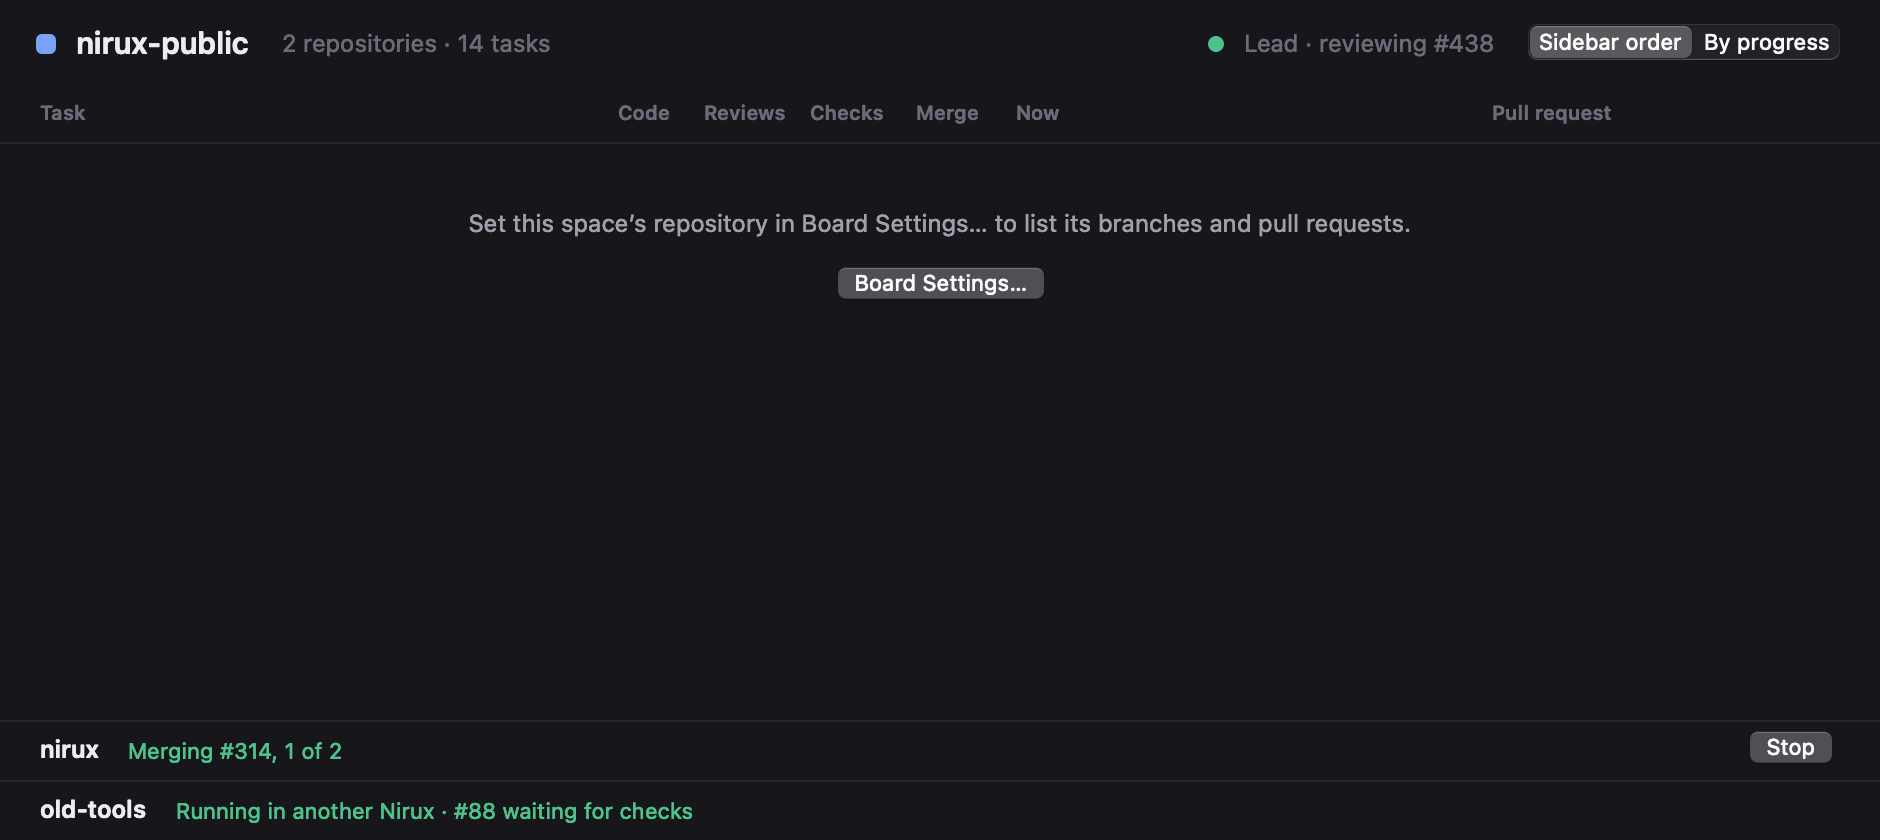
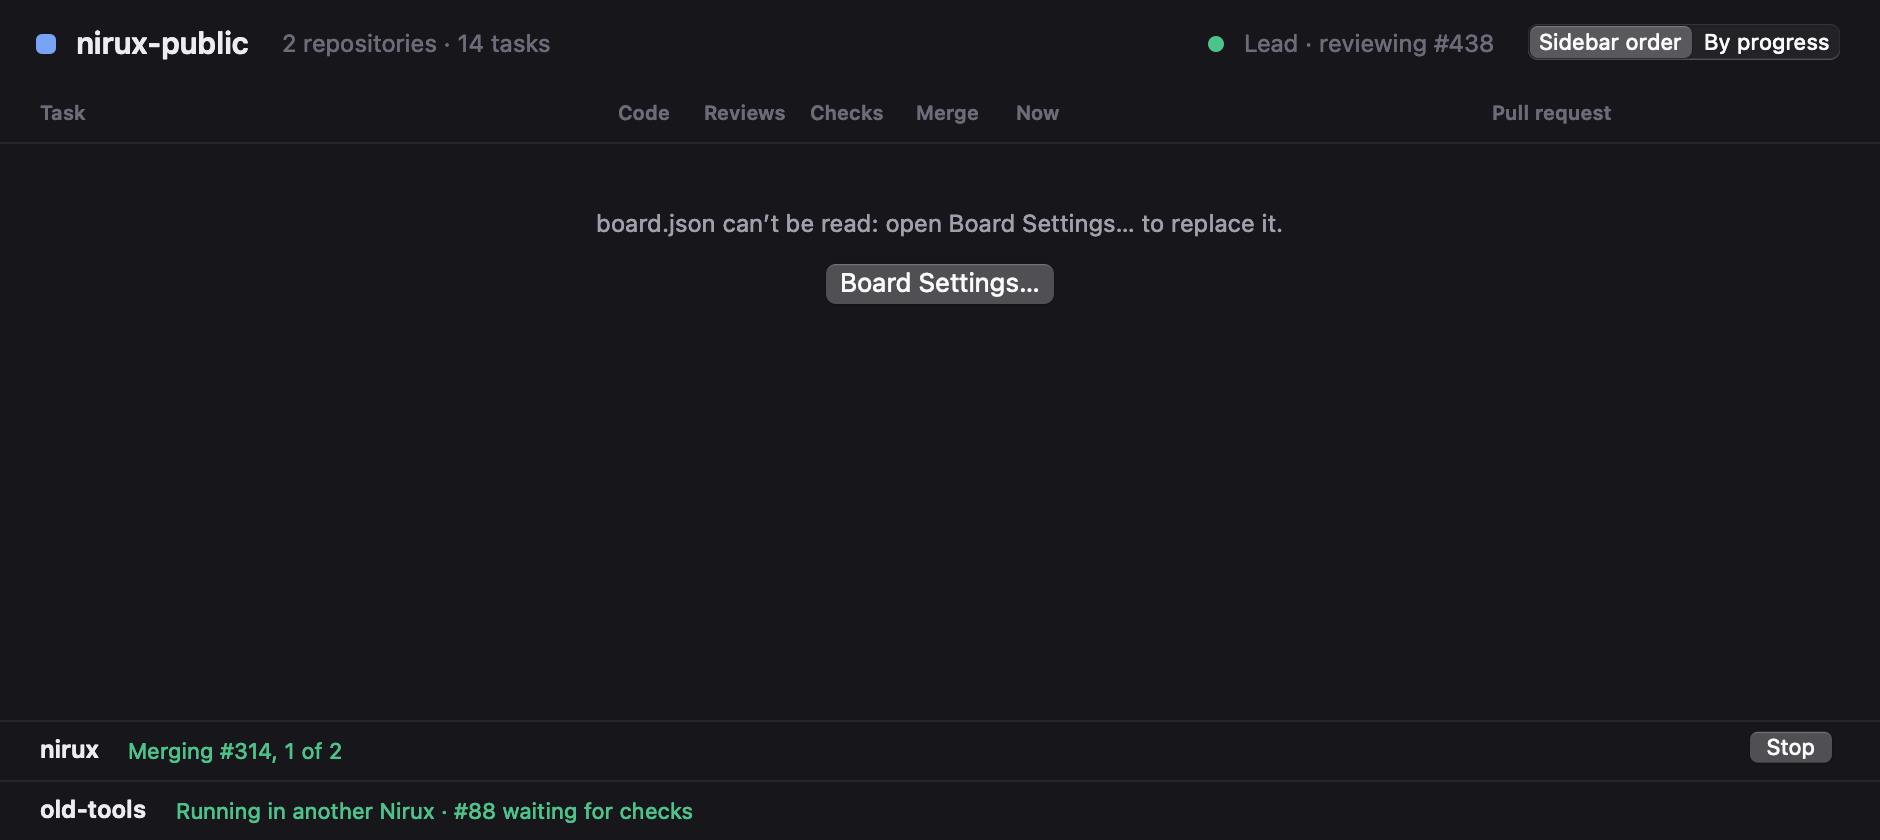
fix(board): a message in place of the sections, after its reviews
- Where a message comes or goes under the pointer, what is now there
  acts only once the pointer moves, even one that aimed: Board
  Settings… pressed as the message went no longer queues the pull
  request that came under the click. Board Settings… is part of what
  the pointer aims at, so it waits too when it comes under a resting
  pointer.
- Nothing is held for a message, coming or going, nor where nothing
  was shown: a Board drawn in two steps no longer stays blank until
  the pointer leaves.
- The folds stay as they were while a message shows.
- Its words can't be selected; its button is the table's size, never
  past the left edge; it is wired once.

Claude-Session: https://claude.ai/code/session_01DoPK2QHBLPrXQLWdF5gnYe

Changed region(s): [[0.2468, 0.2476, 0.7404, 0.2786], [0.4319, 0.3095, 0.5862, 0.3714]]

diff --git a/Tests/NiruxTests/BoardStagesViewTests.swift b/Tests/NiruxTests/BoardStagesViewTests.swift
@@ -2349,6 +2349,11 @@ final class BoardStagesViewTests: XCTestCase {
         XCTAssertNil(view.sectionHeader(section: "nirux"))
         let message = view.messageView
         XCTAssertTrue(message.isDescendant(of: view.scrollView))
+        XCTAssertEqual(view.scrollView.documentView?.subviews.count, 1, "alone in the list: nothing drawn under it")
+        XCTAssertEqual([message.frame.minX, message.frame.width], [0, view.scrollView.contentSize.width])
+        XCTAssertEqual(message.label.alignment, .center)
+        XCTAssertFalse(message.label.isSelectable)
+        XCTAssertEqual(message.settingsButton.frame.width, ceil(message.settingsButton.intrinsicContentSize.width) + 8, "as the table's")
         XCTAssertEqual(message.label.stringValue, "board.json can’t be read: open Board Settings… to replace it.")
         XCTAssertEqual(message.label.frame.minX, 24)
         XCTAssertEqual(message.label.frame.width, message.bounds.width - 48)
@@ -2360,10 +2365,18 @@ final class BoardStagesViewTests: XCTestCase {
         try click(message.settingsButton)
         XCTAssertEqual(opened, 1)
         XCTAssertEqual(view.runningQueueViews.map(\.queue.id), ["orphan"], "a queue that runs keeps its line")
-        // Narrow: its words wrap.
+        // Narrow: its words wrap, and a long one scrolls.
         view.setFrameSize(NSSize(width: 300, height: 600))
         view.layoutSubtreeIfNeeded()
         XCTAssertGreaterThan(message.label.frame.height, 20)
+        told.message?.text = String(repeating: "board.json can’t be read. ", count: 60)
+        view.show(told)
+        view.layoutSubtreeIfNeeded()
+        XCTAssertGreaterThanOrEqual(try XCTUnwrap(view.scrollView.documentView).frame.height, message.frame.maxY)
+        XCTAssertGreaterThan(message.frame.maxY, view.scrollView.contentSize.height)
+        view.setFrameSize(NSSize(width: 40, height: 600))
+        view.layoutSubtreeIfNeeded()
+        XCTAssertGreaterThanOrEqual(message.settingsButton.frame.minX, 0, "nothing past the left edge")
         view.setFrameSize(NSSize(width: 940, height: 600))
         // One the settings can't fix: no button.
         told.message = BoardStagesView.Message(text: "Reading board.json…")
@@ -2378,6 +2391,83 @@ final class BoardStagesViewTests: XCTestCase {
         view.layoutSubtreeIfNeeded()
         XCTAssertNil(message.superview)
         XCTAssertEqual(view.lineViews.map(\.line.id), ["b", "a"])
+    }
+
+    func testAMessageThatComesOrGoesUnderThePointerAimsAgainAndKeepsTheFolds() throws {
+        let sections = { (ids: [String]) in
+            [self.section(units: self.tasks(ids.map { self.offering($0, .add, 50) }), withoutTask: self.tasks([self.line("pr")]))]
+        }
+        let view = board(content(sections(["a", "b"])))
+        var time: TimeInterval = 100
+        var checks = 0
+        view.clock = { time }
+        view.after = { _, _ in checks += 1 }
+        view.settleLater = { $0() }
+        view.foldButton(section: "nirux")?.performClick(nil)
+        view.layoutSubtreeIfNeeded()
+        let merge = BoardStagesView.Columns(width: 940).stations[3]
+        var pointer = place(merge, on: view.lineViews[0])
+        view.pointerLocation = { pointer }
+        view.mouseMoved(with: try moved(to: pointer, in: view))
+        // It comes while the pointer aims, the sections changed: nothing held behind it, no look waits.
+        var told = content(sections(["b", "a"]))
+        told.message = BoardStagesView.Message(text: "board.json can’t be read: open Board Settings… to replace it.", offersSettings: true)
+        view.show(told)
+        view.layoutSubtreeIfNeeded()
+        XCTAssertEqual(view.departed, [])
+        XCTAssertEqual(checks, 0)
+        // Board Settings… under a pointer that aims, then rests on it.
+        let button = view.messageView.settingsButton
+        pointer = button.convert(NSPoint(x: button.bounds.midX, y: button.bounds.midY), to: nil)
+        view.mouseMoved(with: try moved(to: pointer, in: view))
+        XCTAssertFalse(view.isPointerStale)
+        // It goes, the sections coming back with no section: the folds are as they were.
+        time = 101
+        told.message = nil
+        told.sections = sections(["a", "b"])
+        view.show(told)
+        view.layoutSubtreeIfNeeded()
+        XCTAssertEqual(view.lineViews.map(\.line.id), ["a", "b", "pr"], "the fold unfolded still")
+        // What came under the pointer aimed at Board Settings… is another thing to click, though the pointer aims.
+        XCTAssertTrue(view.isPointerStale)
+    }
+
+    func testAMessageAppearingUnderAPointerThatRestsWaitsForItToMove() throws {
+        let view = board(content([section(units: tasks([line("a")]))]))
+        var time: TimeInterval = 100
+        view.clock = { time }
+        view.after = { _, _ in }
+        // Where Board Settings… will be.
+        var told = content([])
+        told.message = BoardStagesView.Message(text: "Reading board.json…", offersSettings: true)
+        let probe = board(told)
+        let button = probe.messageView.settingsButton
+        let pointer = button.convert(NSPoint(x: button.bounds.midX, y: button.bounds.midY), to: nil)
+        view.pointerLocation = { pointer }
+        view.mouseMoved(with: try moved(to: pointer, in: view))
+        time = 200
+        view.show(told)
+        view.layoutSubtreeIfNeeded()
+        XCTAssertTrue(view.isPointerStale, "Board Settings… came under a pointer that rests")
+        // Without its button first, then with it, under a pointer that rests: still another thing to click.
+        time = 205
+        view.mouseMoved(with: try moved(to: NSPoint(x: pointer.x + 5, y: pointer.y), in: view))
+        view.mouseMoved(with: try moved(to: pointer, in: view))
+        told.message?.offersSettings = false
+        view.show(told)
+        XCTAssertFalse(view.isPointerStale)
+        time = 207
+        told.message?.offersSettings = true
+        view.show(told)
+        view.layoutSubtreeIfNeeded()
+        XCTAssertTrue(view.isPointerStale)
+        // It goes with no section; the sections come in a second step, the pointer moving over the Board: shown at once.
+        time = 210
+        view.mouseMoved(with: try moved(to: NSPoint(x: pointer.x + 5, y: pointer.y), in: view))
+        view.show(content([]))
+        view.show(content([section(units: tasks([line("a"), line("b")]))]))
+        view.layoutSubtreeIfNeeded()
+        XCTAssertEqual(view.lineViews.map(\.line.id), ["a", "b"], "nothing was shown: nothing to hold")
     }
 
     func testMergedTodayOpensTheTaskStillOpen() throws {

diff --git a/Sources/Nirux/Views/BoardStagesView.swift b/Sources/Nirux/Views/BoardStagesView.swift
@@ -304,6 +304,8 @@ final class BoardStagesView: NSView {
         scrollView.documentView = documentView
         // Scrolled, the pointer aims at what comes under it.
         scrollView.onScroll = { [weak self] in self?.pointerMoved(to: nil) }
+        messageView.aim = aim
+        messageView.onSettings = { [weak self] in self?.onBoardSettings?() }
         aim.onUse = { [weak self] in self?.pointerUsed() }
         // The lines move under a still pointer when the list scrolls, and
         // an app that isn't active doesn't hear the pointer leave.
@@ -369,9 +371,10 @@ final class BoardStagesView: NSView {
             // The order the switch asked for, now shown; a request is good for this change only.
             let isAsked = askedOrder == content.order && content.order != previous?.order
             askedOrder = nil
-            // A message takes the sections' place at once; once it goes, they come back at once, as they are.
-            let wasMessage = previous?.message != nil
-            if isPointerInside, isAiming, !isAsked, !wasMessage, previous != nil {
+            // A message takes the sections' place at once, and once it goes they come back at once, as they are; nothing
+            // shown, nothing can move under the pointer.
+            let isMessage = content.message != nil || previous?.message != nil
+            if isPointerInside, isAiming, !isAsked, !isMessage, !shownSections.isEmpty, previous != nil {
                 (shownSections, departed) = Self.holding(shownSections, in: content.sections)
             } else {
                 (shownSections, departed) = (content.sections, [])
@@ -380,8 +383,9 @@ final class BoardStagesView: NSView {
         }
         showTimes()
         layoutContent()
-        // Under a pointer that rests, what is under it may have changed: it waits for the pointer to move.
-        if isPointerInside, !isAiming {
+        // Under a pointer that rests, or where a message came or went, what is under it may have changed: it waits for
+        // the pointer to move.
+        if isPointerInside, !isAiming || content.message != previous?.message {
             layoutSubtreeIfNeeded()
             goStale(ifChangedFrom: aimedBefore)
         }
@@ -475,6 +479,16 @@ final class BoardStagesView: NSView {
     /// id, a repository's header, fold and "Merged today" by its section's,
     /// a stack's title by its place.
     private func buildItems() {
+        // A message in their place: the folds stay as they are, for when the sections come back.
+        if let message = content?.message {
+            messageView.show(message)
+            documentView.subviews = [messageView]
+            items = [.message(messageView)]
+            lineViews = []
+            sectionHeaders = [:]
+            worktreeViews = []
+            return
+        }
         let sections = shownSections
         let ids = Set(sections.map(\.id))
         unfolded.formIntersection(ids)
@@ -497,14 +511,6 @@ final class BoardStagesView: NSView {
         worktreeViews = []
         mergedViews = [:]
         captions = []
-        if let message = content?.message {
-            messageView.show(message)
-            messageView.aim = aim
-            messageView.onSettings = { [weak self] in self?.onBoardSettings?() }
-            documentView.subviews = [messageView]
-            self.items = [.message(messageView)]
-            return
-        }
         // The section being listed.
         var sectionID = ""
         func add(_ line: BoardStages.Line, link: BoardStagesLineView.Link) {
@@ -995,6 +1001,10 @@ final class BoardStagesView: NSView {
         if let (id, header) = sectionHeaders.first(where: { under($0.value) != nil }), let local = under(header) {
             let button = [header.startButton, header.stopButton].first { !$0.isHidden && $0.frame.contains(local) }
             return "header \(id) \(button.map { "\($0.title) \($0.isEnabled)" } ?? "")"
+        }
+        // A message's Board Settings…, shown (`under` passes over a hidden view).
+        if messageView.superview != nil, under(messageView.settingsButton) != nil {
+            return "message Board Settings…"
         }
         if let worktree = worktreeViews.first(where: { under($0) != nil }), let local = under(worktree), let path = worktree.worktree?.path {
             let button = [worktree.openButton, worktree.cleanUpButton].first { !$0.isHidden && $0.frame.contains(local) }
@@ -1657,8 +1667,8 @@ final class BoardStagesMessageView: NSView {
         label.font = Theme.Font.body
         label.textColor = Theme.Color.textSecondary
         label.alignment = .center
+        label.isSelectable = false
         settingsButton.bezelStyle = .rounded
-        settingsButton.controlSize = .small
         settingsButton.target = self
         settingsButton.action = #selector(settingsClicked)
         [label, settingsButton].forEach(addSubview)
@@ -1685,8 +1695,9 @@ final class BoardStagesMessageView: NSView {
     override func layout() {
         super.layout()
         label.frame = NSRect(x: 24, y: 32, width: max(0, bounds.width - 48), height: textHeight(bounds.width))
-        let width = ceil(settingsButton.fittingSize.width)
-        settingsButton.frame = NSRect(x: ((bounds.width - width) / 2).rounded(), y: label.frame.maxY + 12, width: width, height: 24)
+        // As the table's button: its own width and 8 pt more; never past the left edge.
+        let width = ceil(settingsButton.intrinsicContentSize.width) + 8
+        settingsButton.frame = NSRect(x: max(0, ((bounds.width - width) / 2).rounded()), y: label.frame.maxY + 12, width: width, height: 24)
     }
 
     @objc private func settingsClicked() { onSettings?() }

diff --git a/docs/design/board-stages.md b/docs/design/board-stages.md
@@ -256,15 +256,18 @@ clicked. The sizes are the mockup's.
 
   ![Two repositories' queues: one merging, in green, with Stop; one stopped on a problem, in red, with Start… · 1; at the Board's foot, the queue that runs here and one run by another Nirux](../images/board-stages-queues.png)
 
-- **A message** takes the sections' place, as the table's does (the space
-  deleted, board.json unreadable or not read yet, no repository set): its
-  words centred, wrapped, and Board Settings… under them where the settings
-  can fix what they say. The running queues' lines stay at the foot. It
-  comes at once, the pointer over the Board or not (it is the whole Board's
-  state, and rarely changes); once it goes, the sections come back at once,
-  as they are.
+- **A message** takes the sections' place when the table would show one
+  in place of its rows (the space deleted, board.json unreadable, read-only
+  or not read yet, no repository set, worktrees being listed): its words
+  centred, wrapped, scrolling when long, and Board Settings… under them where
+  the settings can fix what they say. The running queues' lines stay at the
+  foot. Nothing is held for it: it comes at once, and once it goes the
+  sections come back at once, their folds as they were; nothing shown,
+  nothing can move under the pointer. Where it came or went under the
+  pointer, what is now there acts only once the pointer moves, as after a
+  rest (section 4).
 
-  ![The Board saying its space has no repository set, with Board Settings… under it; the running queues' lines at its foot](../images/board-stages-message.png)
+  ![The Board saying board.json can't be read, with Board Settings… under it; the running queues' lines at its foot](../images/board-stages-message.png)
 
 - **A line** is 34 pt: its state's dot and its title, its rail, its phrase
   (amber or red when it needs a look, else grey), its pull request, its time.
